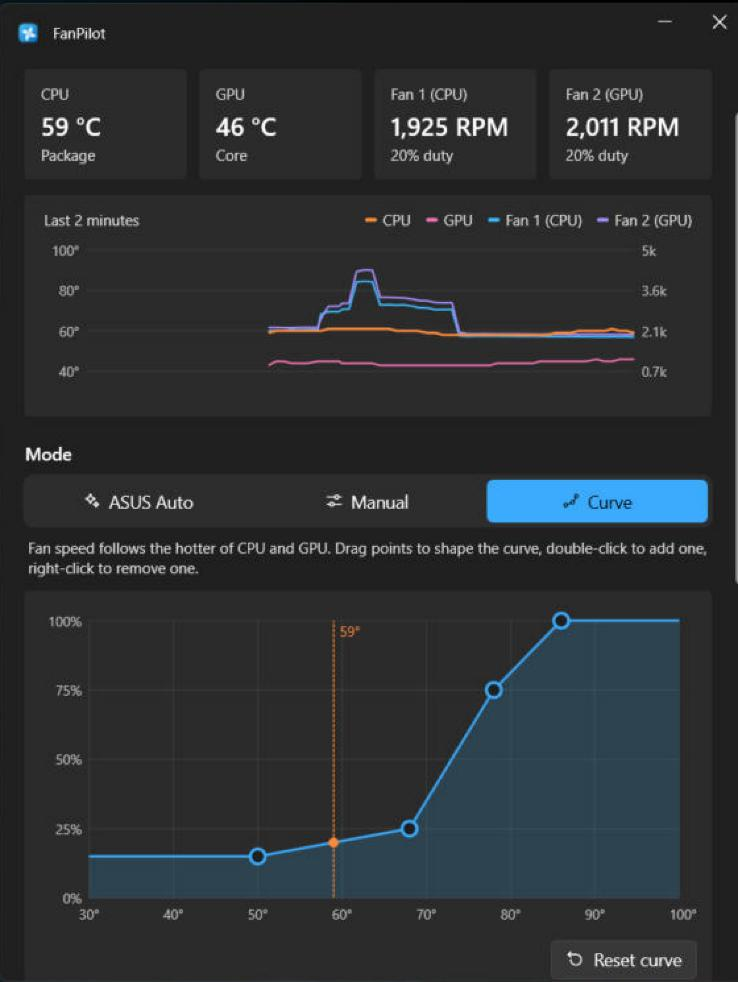
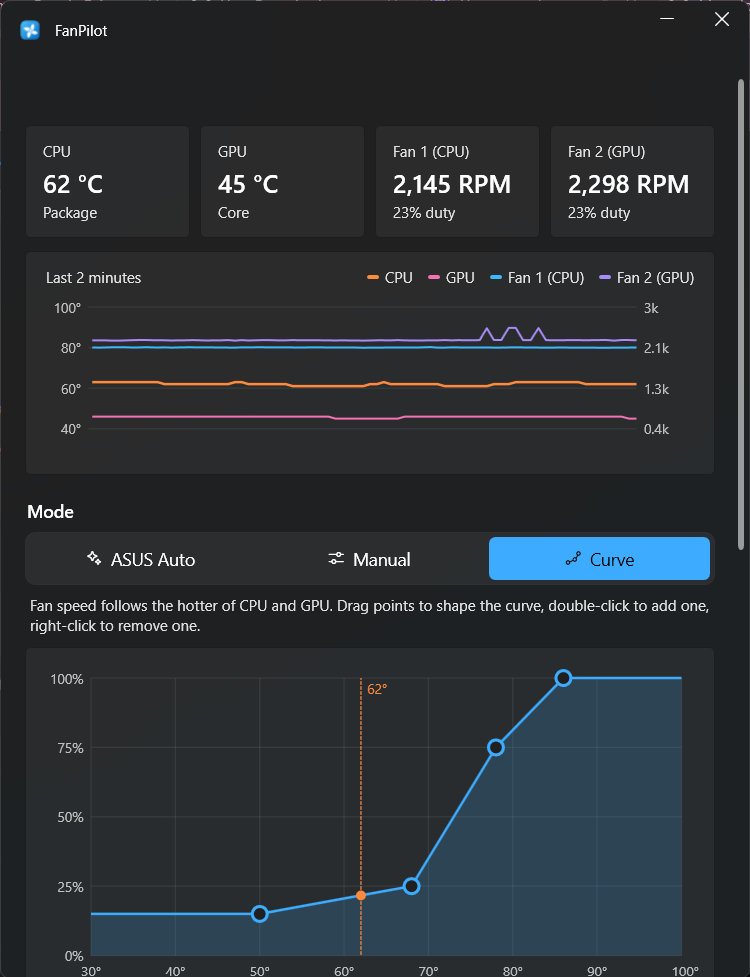
Update README
Add screenshots of Curve mode, Manual mode and Settings.

diff --git a/README.md b/README.md
@@ -5,7 +5,9 @@ temperature curve you draw yourself, from a window or the tray. FanPilot measure
 it never runs them slower than they can safely spin, and hands control back to ASUS whenever
 something looks wrong.
 
-![FanPilot window](docs/screenshot.png)
+<p align="center">
+  <img src="docs/screenshot.png" width="460" alt="FanPilot in Curve mode: CPU, GPU and fan readings, a two-minute chart, and the temperature curve editor">
+</p>
 
 ## Features
 
@@ -26,6 +28,11 @@ something looks wrong.
   icon run as you. Pin FanPilot to the taskbar and it opens like any other app.
 - **Copy diagnostics.** One button copies your model, driver versions, fan setup results and
   recent log, ready to paste into a bug report.
+
+<p align="center">
+  <img src="docs/screenshot-manual.png" width="49%" alt="Manual mode with the speed slider and the Silent, Balanced, Performance and Max presets">
+  <img src="docs/screenshot-settings.png" width="49%" alt="Settings: fan setup results, CPU and GPU thermal overrides, tray and theme options, and Copy diagnostics">
+</p>
 
 ## Safety
 
